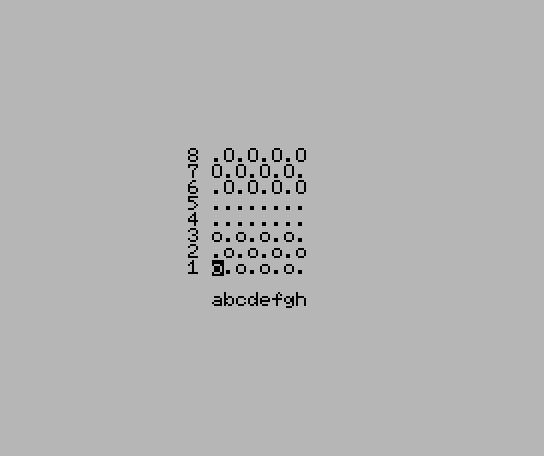
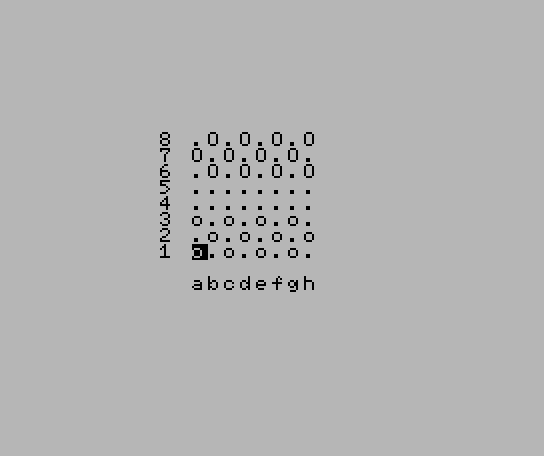
screen1

Changed region(s): [[0.3438, 0.2763, 0.5938, 0.6754], [0.2812, 0.2763, 0.3125, 0.5833], [0.5625, 0.2763, 0.5938, 0.307]]

diff --git a/readme.md b/readme.md
@@ -36,7 +36,16 @@ for a smoother effect use an accelerated clock:
 # Source Description
 
 ```
-1 bload"x.bin",R
+1 screen1,0,0:COLOR1,14,14:KEYOFF::DEFINTA-Z:B=6347:R=RND(-TIME):P(0)=46:P(1)=111:P(2)=79:P(5)=113:P(6)=81:B2=B+32*9:CLS:P1=0:P2=0:forJ=0to7:vpokeB-2+J*32,56-J:vpokeB2+J,97+J:forI=0to7:CK(I,J)=(1-(I+J)mod2)*(-1*(I<3)-2*(I>4)):nextI,J:
+10 forJ=0to7:forI=0to7:vpoke B+32*(J)+I,P(CK(7-J,I)):nextI,J:gosub150:Q=(CK(R,C)and4):if (CK(R,C)and1)=0 then 10:else R0=R:C0=C:GOSUB150:if(R=R0+1or(Q=4 and R=R0-1))and abs(C0-C)=1 and CK(R,C)=0 then CK(R,C)=(CK(R0,C0)or(4*(-1*(R=7)))):CK(R0,C0)=0:goto60
+20 CE=CK((R+R0)/2,(C+C0)/2):if(Q=0andR<>R0+2)orabs(R-R0)<>2orabs(C0-C)<>2orCK(R,C)<>0or(CE and2)<>2orQ<(CEand4)thenC=C0:R=R0:goto10:else:CK((R+R0)/2,(C+C0)/2)=0:CK(R,C)=(CK(R0,C0)or(4*(-1*(R=7)))):CK(R0,C0)=0:P1=P1+1:vpokeB2+95+P1,p(CE):beep:ifP1=12then1
+60 AI=0:DU=RND(1)*7:DV=RND(1)*7:forJ=0to7:forI=0to7:vpoke B+32*(J)+I,P(CK(7-J,I)):nextI,J: forJ=0to7:U=(J+DU)mod8:forI=0to7:V=(I+DV)mod8:Q=CK(U,V)and4:forK=-1to1 step 2:forL=-1to(-(Q=4))step2: if(L=-1 and U<2) or (L=1andU>5) or (CK(U,V)and2)<>2 then70
+65 D=-(V<2)++(V>5)+(V>1)*(V<6)*K:T=-(U<2)++(U>5)+(U>1)*(U<6)*L:CE=CK(U+T,V+D):if(CEand1)=1and Q>=(CEand4) and CK(U+2*T,V+2*D)=0 then CK(U+2*T,V+2*D)=(CK(U,V)or(4*(-1*((U+2*T)=0)))):CK(U,V)=0:CK(U+T,V+D)=0:I=7:J=7:K=1:AI=1:vpokeB-96+P2,p(1):P2=P2+1:beep
+70 nextL,K,I,J:if P2=12 then 1 else if AI=1 then 10
+71 S=SGN(RND(1)-.5):forJ=0to7:U=(J+DU)mod8:forI=0to7:V=(I+DV)mod8:Q=(CK(U,V)and4):forK=-StoS step S*2:forL=-StoSstep2*S: if (Q=0 and L=1) or (L=-1 and U=0) or (L=1 and U=7) or (CK(U,V)and2)<>2 then75:else D= -(V<1) + +(V>6) + (V>0) * (V<7)*K: T= L:
+73 if CK(U+T,V+D)=0 then CK(U+T,V+D)=(CK(U,V)or(4*(-1*((U+T)=0)))):CK(U,V)=0:K=11: AI = 1: J=7:I=7:K=1:L=1
+75 next L,K,I,J:if AI=0 then 1 :else10
+150 LOCATE9+C,13-R:k$=INPUT$(1):K=ASC(K$):if K=32then return: else if K=30andr<7thenR=R+1:goto150:elseifK=31andR>0thenR=R-1:goto150:elseifK=28andC<7thenC=C+1:goto150;elseifK=29andC>0thenC=C-1:GOTO150:ELSE150
 ```
 - Load Kun BASIC.
 ```
